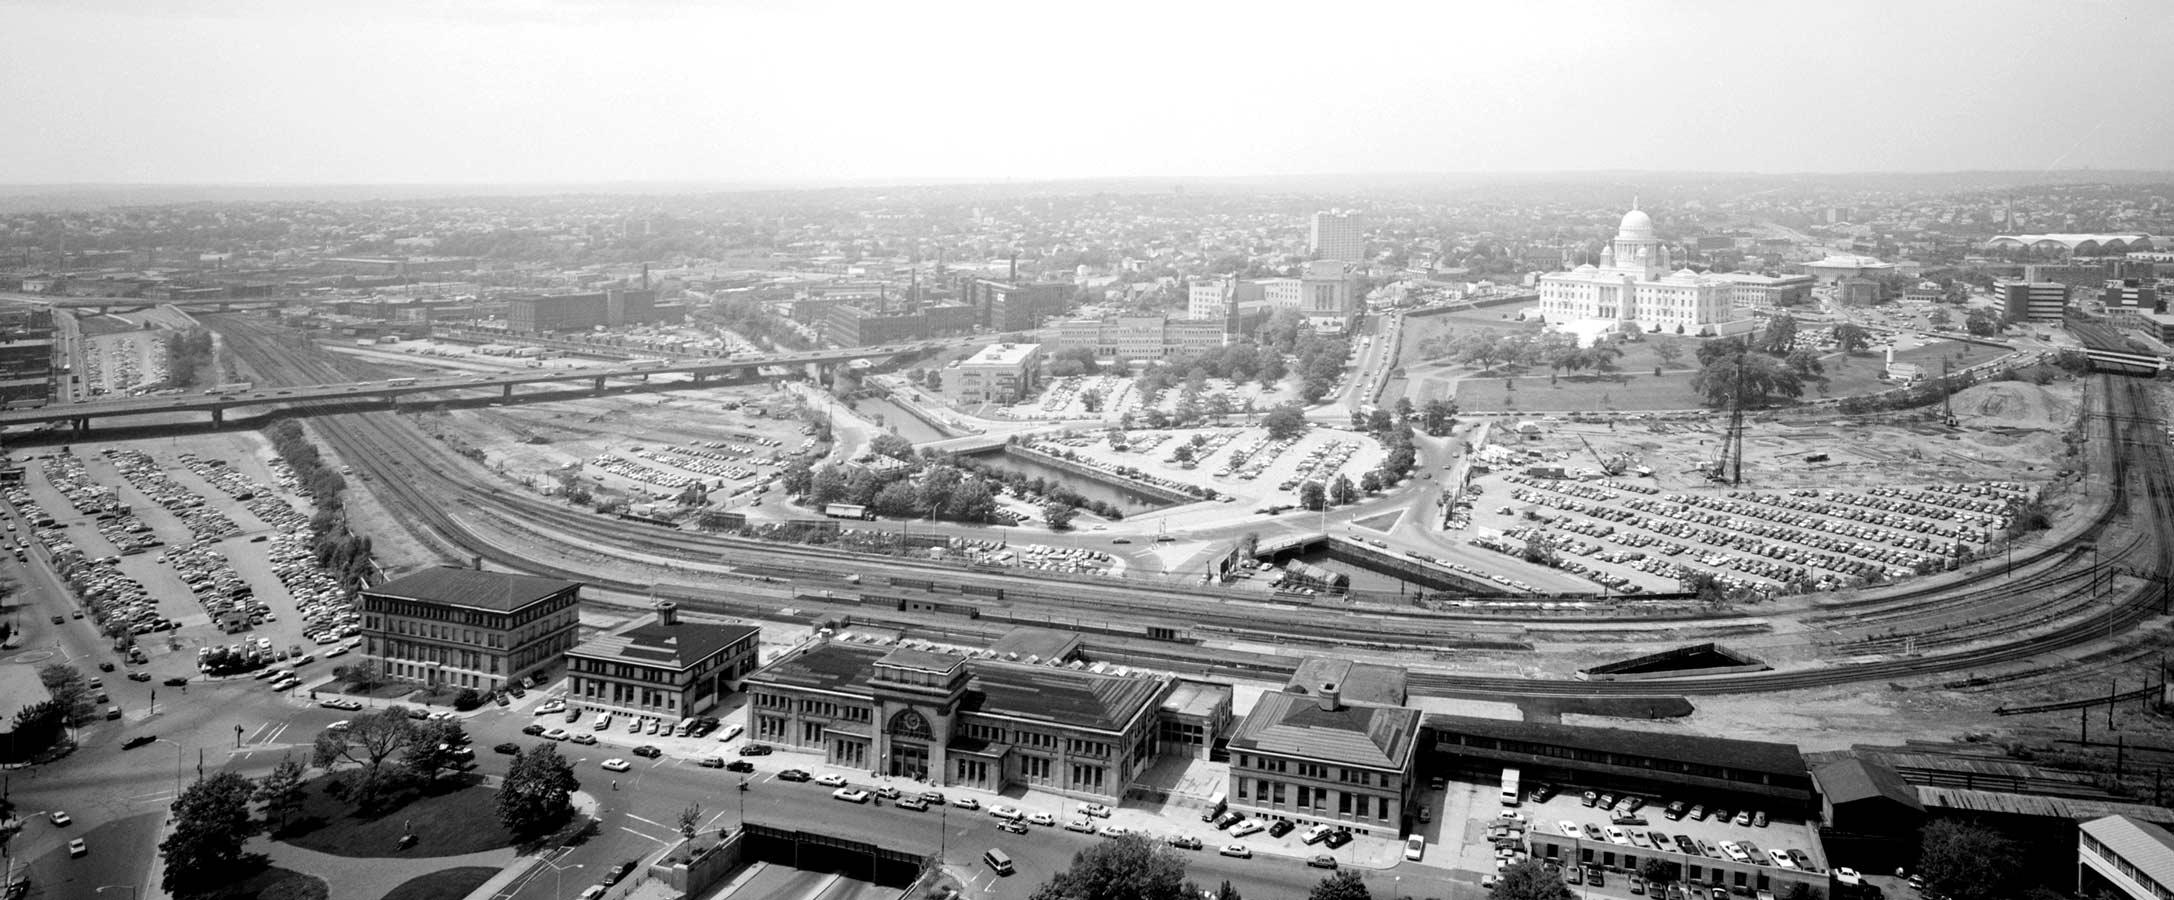
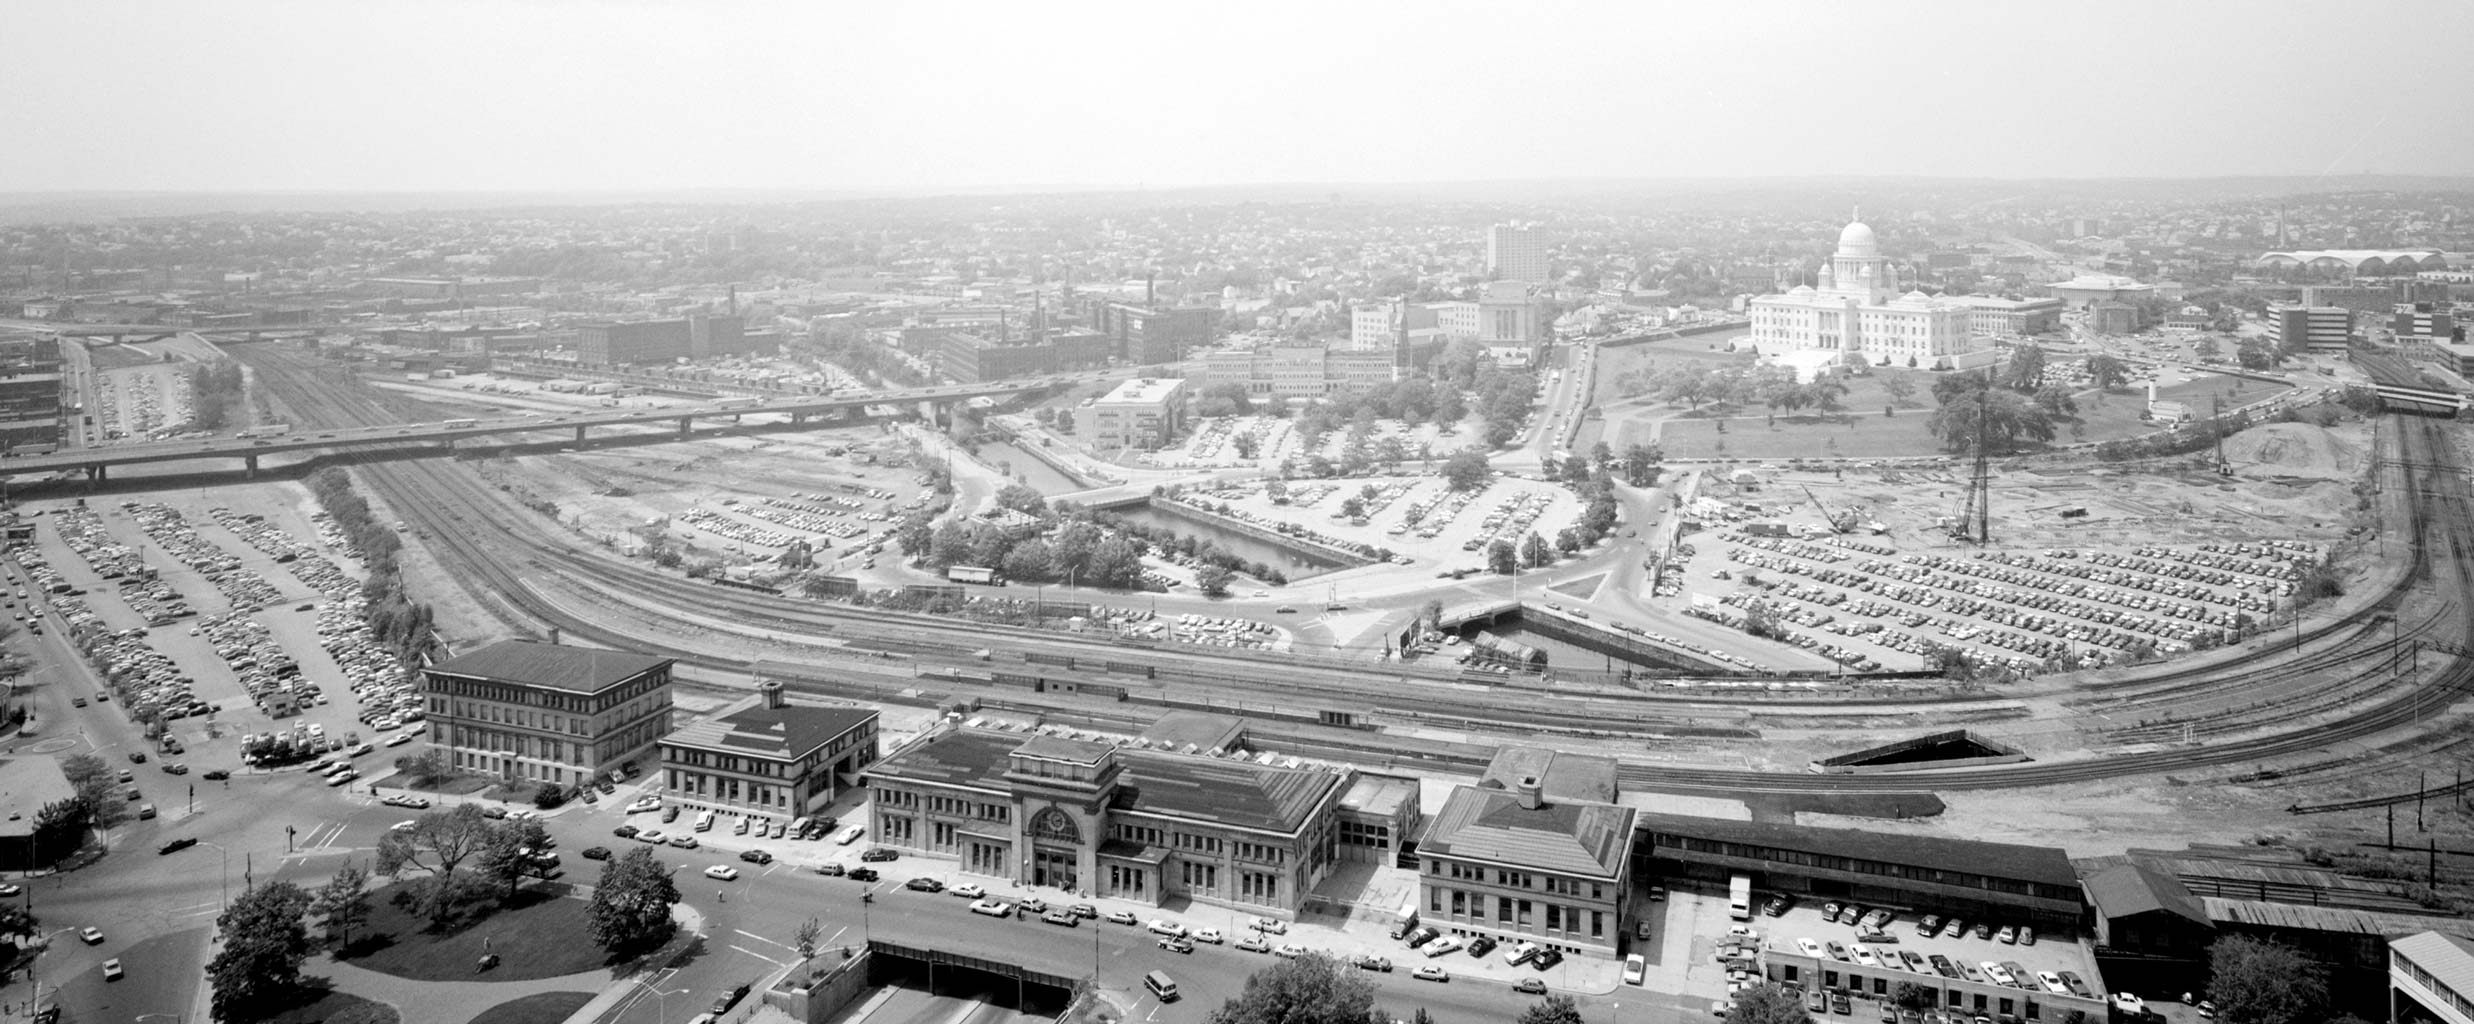
Update the Capital Center aerials

diff --git a/_property/capital-center-aerial-pvd.md b/_property/capital-center-aerial-pvd.md
@@ -1,8 +1,8 @@
 ---
-title: "Capital Center changes in 23 years (1982 vs. 2005)"
+title: "Capital Center changes over 42 years (1982 vs. 2024)"
 slug: capital-center-aerial-pvd
 aka:
-date-modified: 2022-10-17 12:00
+date-modified: 2024-05-17 12:00
 
 built:
 demolition:
@@ -16,7 +16,7 @@ town: [ 'Providence, RI' ]
 designers: []
 people: []
 lists: [ 'Capital Center Parcels' ]
-tags: [ 'Vintage Views' ]
+tags: [ 'Library of Congress', 'Vintage Views' ]
 
 address: 'From the Rhode Island State House to Kennedy Plaza, Providence RI'
 latitude: '41.8248047'
@@ -24,20 +24,22 @@ longitude: '-71.4570801'
 gmap: "https://www.google.com/maps/place/Rhode+Island+State+House/@41.8248047,-71.4570801,14z/data=!3m1!5s0x89e4451a6437e02b:0x360c1fbe902280b!4m9!1m2!2m1!1scapital-center+providence+ri!3m5!1s0x89e4451a576adb33:0x4e520f7525043b6d!8m2!3d41.8307662!4d-71.4153037!15sChxjYXBpdGFsLWNlbnRlciBwcm92aWRlbmNlIHJpWh4iHGNhcGl0YWwgY2VudGVyIHByb3ZpZGVuY2UgcmmSARdzdGF0ZV9nb3Zlcm5tZW50X29mZmljZZoBI0NoWkRTVWhOTUc5blMwVkpRMEZuU1VSWk9XUlFPRkZSRUFF4AEA"
 
 meta: ""
-excerpt: "An image from 1982 with the State House surrounded by train tracks is updated in 2005, before additional new buildings rise up"
+excerpt: "A photo from 1982 is updated in 2005, before additional new buildings rise up, and then again in 2024"
 
 thumbnail: capital-center-thumbnail.jpg
 
 images:
   - url: capital-center-1982.jpg
     caption: 'Photographer Wm. Edmund Barrett, 1982–1983, part of HABS no. RI-388, Providence Union Station'
-    sizes: '2174, 900'
+    sizes: '2474, 1024'
   - url: capital-center-2005.jpg
-    sizes: '2174, 900'
+    caption: 'Photo taken 2005 by J. Hogue for ArtInRuins'
+    sizes: '2474, 1024'
+  - url: capital-center-2024.jpg
+    caption: 'Photo taken 2024 by J. Hogue for ArtInRuins'
+    sizes: '2474, 1024'
 
-mostrecentimage: 2021-07-01
-
-imagescredit: '1982 image from the Library of Congress, <a href="https://www.loc.gov/pictures/item/ri0377.photos.145737p/" target="_blank">Historic American Building Survey/Historical American Engineering Record of Union Station</a>'
+imagescredit: '1982 image from the Library of Congress, <a href="//www.loc.gov/pictures/item/ri0377.photos.145737p/">Historic American Building Survey/Historical American Engineering Record of Union Station</a>'
 
 #external:
 #  - source: 'Providence Journal (permalink)'
@@ -46,15 +48,18 @@ imagescredit: '1982 image from the Library of Congress, <a href="https://www.loc
 
 ### Redevelopment
 
-With all the new construction going on in what has been called [Capital Center]({% link list/capital-center-parcels.html %}), AIR decided it was time to dive into the vaults to see where we were coming from, in order to better understand where we may be going. 
+The new development around the State House since 1982 is just remarkable, with much of it occurring between 2005 and 2010. The area is called [Capital Center]({% link list/capital-center-parcels.html %}) and is comprised of about 19 parcels and its development is governed by the [Capital Center Commission](//www.providenceri.gov/planning/capital-center-commission/).
 
-These comparative views are of the area between Smith Street and Kennedy Plaza looking north-northwest. The 1983 aerial was presumably taken from the top of the Industrial Trust building but could have been taken by helicopter as well. The vantage point for the 2005 photo is very similar, however, which makes us think that both were taken from the [Industrial Trust building]({% link _property/industrial-trust-superman-bldg.md %}).
+These comparative views are of the area between Smith Street and Kennedy Plaza looking north-northwest. The 1983 aerial was presumably taken from the 26th floor (or higher) of the [Industrial Trust building]({% link _property/industrial-trust-superman-bldg.md %}). The vantage point for the 2005 and 2024 photos are as similar as we could get. The difference in perspective might be height but can also be attributed to the camera lens in use. Mr. Barrett likely used 4 x 5 land camera, and a “standard” lens is 150mm. Our 35mm DSLR camera won’t capture the landscape in quite the same way.
 
-How’d we get the 2005 photo? A few phone calls, some favors from a friend of a friend of a friend (in RI everyone knows someone else), and eventually we got to go to the top of the Industrial Trust building… well, almost. We got the the 28th floor, which was the highest we could go with their permission. (It wouldn’t be until 2012 until we could see the upper areas and even [got into the lantern.]({% link _property/industrial-trust-superman-bldg.md %}#photo-indy-trust-jh-2012-10-09)) What we really needed to do to reproduce this shot was to get to the roof of the first landing, which we were not able to do. Well, that and use a camera with a similar lens to recreate the way a large-format 4 x 5" camera can flatten perspective so well.  
+How’d we get the new photos? A few phone calls, some favors from a friend of a friend of a friend (in RI everyone knows someone else), and eventually we got to go to the 26th floor of the Industrial Trust building. In 2012, we were able to see the upper areas, the gondola, and even [the inside of the lantern.]({% link _property/industrial-trust-superman-bldg.md %}#photo-indy-trust-jh-2012-10-09).
+
+Being able to return almost 10 years later to capture the third photo was a real treat — thank you again to all those who made it possible, and who invited us to document these changes.
+
 
 ### History
 
-For these views, here is a list of iconic architecture and their build or demolition dates: 
+For each view, we have listed the iconic architecture and the build or demolition dates:
 
 <figure class="u__img" aria-hidden="true">
   <img src="{{ site.prod_url }}{{ site.propimg_path }}{{ page.slug }}/capital-center-1982.jpg" alt="" />
@@ -79,13 +84,33 @@ For these views, here is a list of iconic architecture and their build or demoli
 #### 2005 view, left to right:
 
 + A little sliver of the Biltmore can be seen on the far left, built 1922
-+ The Westin Hotel (now called the Omni Hotel) is the tall tower on the center left, blocking the view of the highway overpasses, built in 1994. [A new residential tower]({% link _property/westin-tower.md %}) has yet to break ground but did later in 2005 and was completed by 2007
++ The Westin Hotel (now called the Omni Hotel) is the tall tower on the center left, blocking the view of the highway overpasses, built in 1994
++ The yellow brick, seven story building behind Union Station (and architected to look very similar) is the Courtyard Marriott Hotel, built in 2000
 + The Providence Place Mall, built 1994–1999, dominates the left and center of the photo behind the still extant Union Station
 + Just above the left top corner of the Mall is [The 903]({% link _property/the-903.md %}), a block of residences built in 2002-2003
-+ Ground-breaking is about to commence in the center of the photo on the [G-Tech Headquarters]({% link _property/gtech-headquarters.md %}), built 2005-2006
++ Ground-breaking is about to commence in the center of the photo on the G-Tech Headquarters, built later in 2005
 + The circular bit of water in the center is the newly uncovered Woonasquatucket River and Waterplace Park, reviving the former [Providence Cove]({% link _property/cove-basin-and-waterplace.md %}). [Waterplace Park was designed loosely in 1981]({% link _property/101-north-main-st.md%}#blue-point-oyster-house), formalized by 1984, but not fully realized until 1994
 + Diagonally above the Waterplace Park amphitheater as your eye moves to the State House is the [Gateway Building]({% link _property/gateway-building.md %}), built 1988-1990
 + Barely visible, to the right of the Gateway Building and behind Avalon at Center Place is the Amtrack Station, built 1982–1986
 + Commanding the right center is Avalon at Center Place, a U-shaped residential building, built 1989–1992
 
-Not yet present: [Waterplace Towers]({% link _property/waterplace-towers.md %}) built 2006–2007, the [Blue Cross Blue Shield Tower]({% link _property/blue-cross-tower.md %}) built 2008–2009, [One Park Row West]({% link _property/capital-center-parcel-6.md %}) built 2005–2009, [Homewood Suites]({% link _property/homewood-suites.md %}) built 2017–2019 on the triangular parcel, visible in the far right bottom, and [Station Row Apartments]({% link _property/capital-center-parcel-6b.md %}) built 2016–2018.
+<figure class="u__img" aria-hidden="true">
+  <img src="{{ site.prod_url }}{{ site.propimg_path }}{{ page.slug }}/capital-center-2024.jpg" alt="" />
+</figure>
+
+#### 2024 view, left to right:
+
++ The Biltmore, now “The Graduate”
++ The [new Westin Hotel residential tower]({% link _property/westin-tower.md %}) broke ground after our photo from 2005 and was completed by 2007. It is the largest tower in the photo
++ Along the front is, of course, Union Station (no. 2), built 1896-98
++ The Courtyard Marriott Hotel, built 2000
++ The Providence Place Mall, built 1994–1999
++ The bluish, mostly glass building in the center left is the former [G-Tech Headquarters]({% link _property/gtech-headquarters.md %}), built 2005-2006, now the IGT Center
++ Waterplace Park is the central, circular water feature
++ To the right of Waterplace park are the [Waterplace Towers]({% link _property/waterplace-towers.md %}), built 2006–2007, with the [Blue Cross Blue Shield Tower]({% link _property/blue-cross-tower.md %}), built 2008–2009, in between
++ Barely visible behind these towers is the State House, built 1891–1901. Notice that the Independent Man is not atop the dome — he was removed in late 2023 for repairs and was not yet back on top when these photos were taken
++ In the bottom right is the [Homewood Suites Hotel]({% link _property/homewood-suites.md %}), built on a difficult triangular parcel between 2017 and 2019
++ In the center far right is [One Park Row West]({% link _property/capital-center-parcel-6.md %}), built 2005–2009
++ Right above that is phase 2 of the park row project, [Station Row Apartments]({% link _property/capital-center-parcel-6b.md %}), built 2016–2018
+
+Can we get back to take photos in 2035? We hope so. We’ll just have to get to know the folks who live in the apartments by then.
